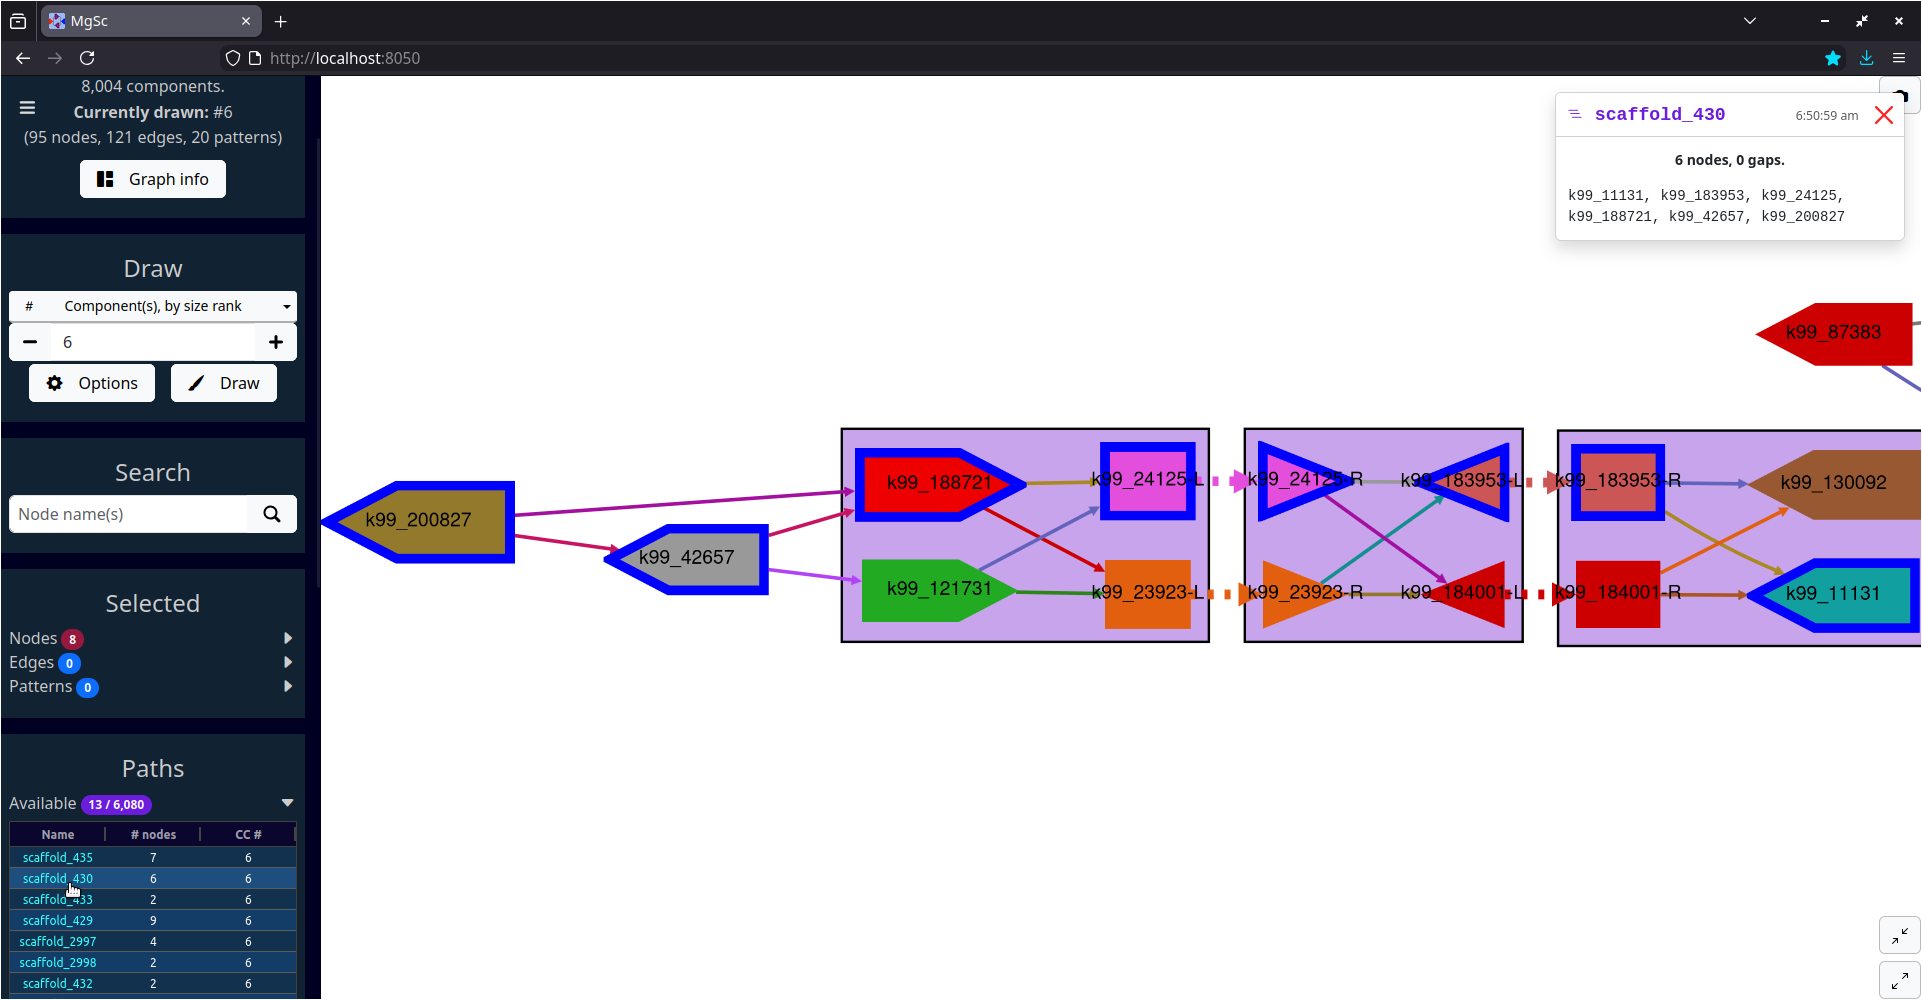
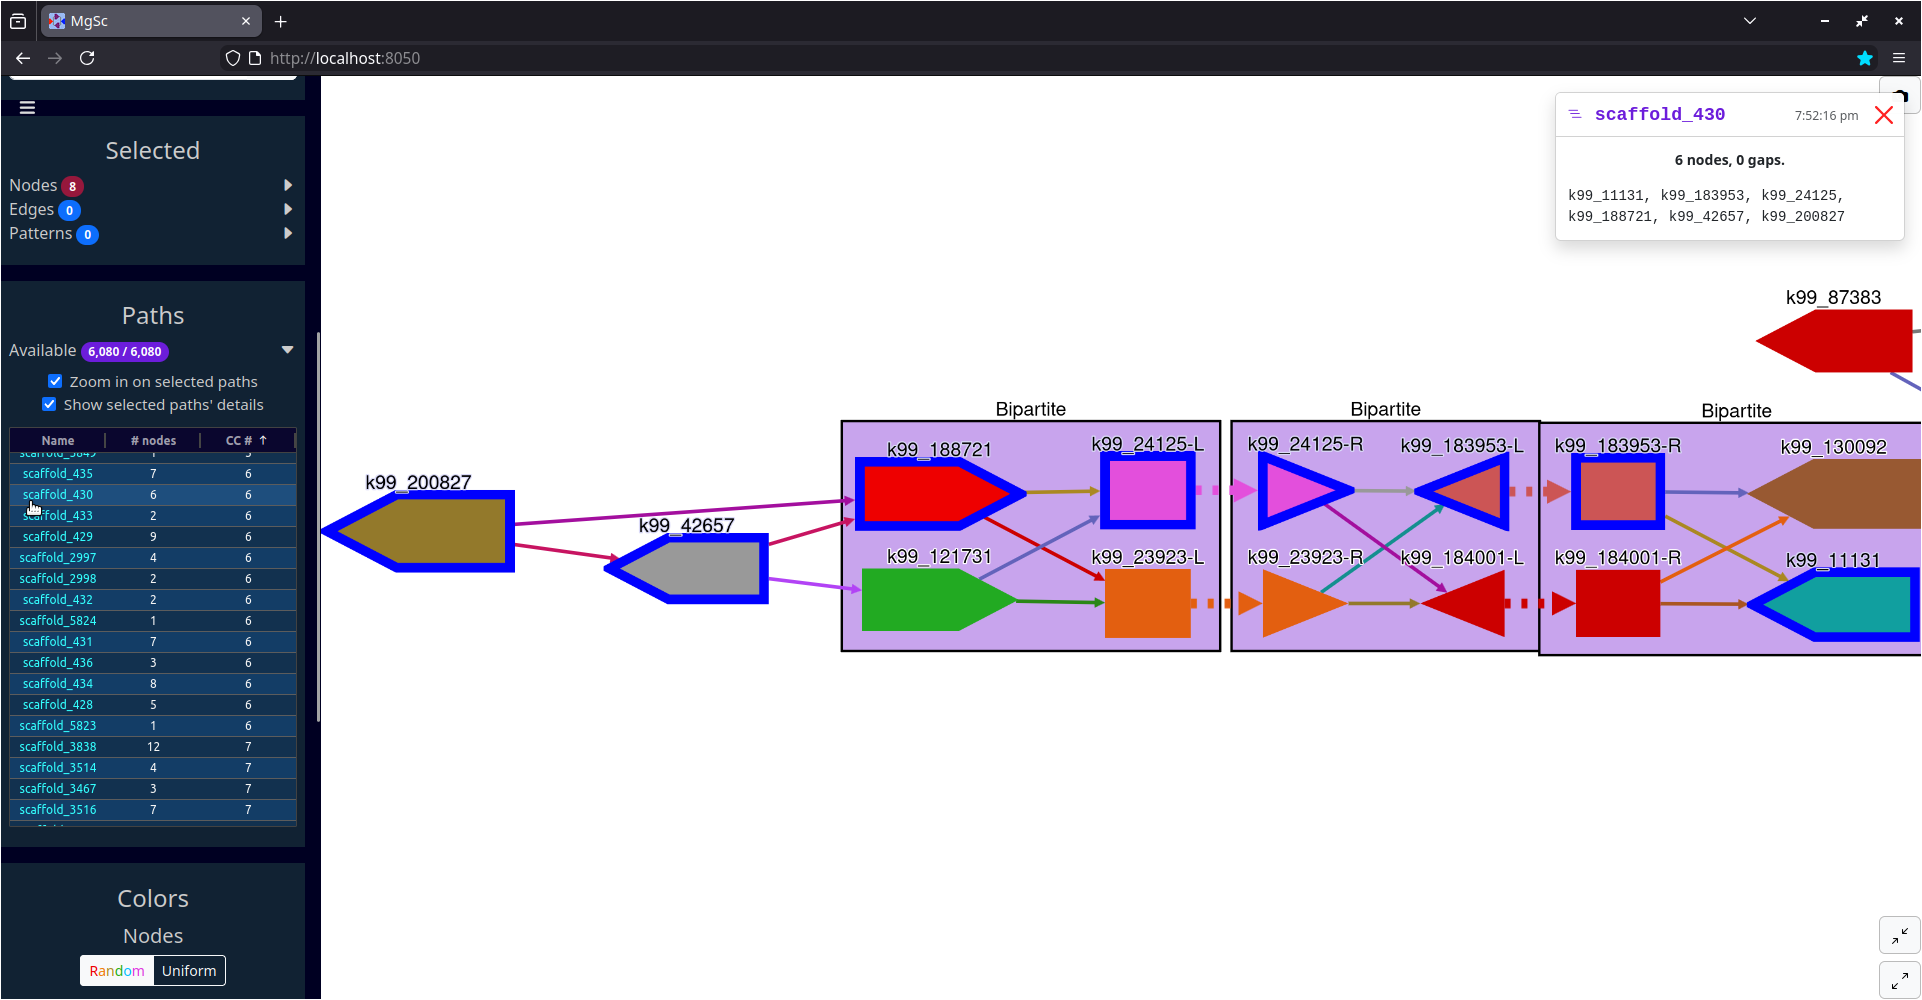
example graph screenshots :)

Changed region(s): [[0.0, 0.062, 1.0, 1.0], [0.9053, 0.279, 1.0, 0.372], [0.9365, 0.093, 0.9677, 0.124]]

diff --git a/README.md b/README.md
@@ -214,6 +214,24 @@ wget https://raw.githubusercontent.com/marbl/MetagenomeScope/refs/heads/main/met
 mgsc -g flye_yeast.gv -i flye_yeast_assembly_info.txt
 ```
 
+<table>
+  <thead>
+    <tr>
+      <th colspan="2">Yeast assembly graph screenshots</th>
+    </tr>
+  </thead>
+  <tbody>
+    <tr>
+      <td><img src="https://raw.githubusercontent.com/marbl/MetagenomeScope/refs/heads/main/docs/res/screenshots/flye_yeast_all.png" alt="Entire yeast assembly graph." /></td>
+      <td><img src="https://raw.githubusercontent.com/marbl/MetagenomeScope/refs/heads/main/docs/res/screenshots/flye_yeast.png" alt="Yeast assembly graph, zoomed in on a scaffold path." /></td>
+    </tr>
+    <tr align="center">
+      <td>Entire graph</td>
+      <td>Zoomed in on <tt>scaffold_34</tt> in component #1</td>
+    </tr>
+  </tbody>
+</table>
+
 ### 2. Medium graph: Velvet (`LastGraph` file; 558 nodes; 664 edges) -- _E. coli_
 
 This is an example graph from [Bandage](http://rrwick.github.io/Bandage/).
@@ -224,6 +242,24 @@ wget https://raw.githubusercontent.com/marbl/MetagenomeScope/refs/heads/main/met
 
 mgsc -g E_coli_LastGraph
 ```
+
+<table>
+  <thead>
+    <tr>
+      <th colspan="2"><i>E. coli</i> assembly graph screenshots</th>
+    </tr>
+  </thead>
+  <tbody>
+    <tr>
+      <td><img src="https://raw.githubusercontent.com/marbl/MetagenomeScope/refs/heads/main/docs/res/screenshots/ecoli_dot.png" alt="E. coli assembly graph drawn using a hierarchical layout algorithm, dot." /></td>
+      <td><img src="https://raw.githubusercontent.com/marbl/MetagenomeScope/refs/heads/main/docs/res/screenshots/ecoli_sfdp_osfminus15.png" alt="E. coli assembly graph drawn using a force-directed layout algorithm, sfdp." /></td>
+    </tr>
+    <tr align="center">
+      <td>Hierarchical layout with <a href="https://graphviz.org/docs/layouts/dot/"><i>dot</i></a></td>
+      <td>Force-directed layout with <a href="https://graphviz.org/docs/layouts/sfdp/"><i>sfdp</i></a></td>
+    </tr>
+  </tbody>
+</table>
 
 ### 3. Large graph: MetaCarvel (`GML` file; 28,064 nodes; 21,769 edges) -- stool metagenome
 
@@ -237,10 +273,28 @@ wget https://zenodo.org/records/18316065/files/scaffolds_august1_fixed.agp
 mgsc -g august1.gml -a scaffolds_august1_fixed.agp --verbose
 ```
 
+<table>
+  <thead>
+    <tr>
+      <th colspan="2">Stool metagenome scaffold graph screenshots</th>
+    </tr>
+  </thead>
+  <tbody>
+    <tr>
+      <td><img src="https://raw.githubusercontent.com/marbl/MetagenomeScope/refs/heads/main/docs/res/screenshots/aug1cc2.png" alt="Second largest connected component." /></td>
+      <td><img src="https://raw.githubusercontent.com/marbl/MetagenomeScope/refs/heads/main/docs/res/screenshots/aug1cc6_scaffold430.png" alt="Sixth largest connected connected component, zoomed in on a scaffold path." /></td>
+    </tr>
+    <tr align="center">
+      <td>Entire graph (on my 2018 laptop this takes about 2.5 minutes to lay out and draw; see tip below) </td>
+      <td>Zoomed in on <tt>scaffold_430</tt> in component #6</td>
+    </tr>
+  </tbody>
+</table>
+
 > [!TIP]
 > You can get a sense for the sizes of this graph's connected components by clicking the "Graph info" button in the left sidebar, then examining the information in the "Components" tab.
 >
-> This shows that the largest connected component in this graph (i.e. the one with size rank #1) contains over six thousand nodes. You can certainly draw this component in MetagenomeScope, but it will take a few seconds to lay out and draw. The resulting interface may also become a bit sluggish due to the size of the graph.
+> This shows that the largest connected component in this graph (i.e. the one with size rank #1) contains over six thousand nodes. You can certainly draw this component in MetagenomeScope, but it will take a few seconds to lay out and draw. The resulting interface may also become a bit sluggish due to the size of the graph. (You could even draw the entire graph if you wanted to, as shown above! But it will be even more sluggish.)
 >
 > If you would like to examine the smaller parts of this graph, you can start by drawing component #2 -- or even a range of components, for example #2 - 10. (Try pasting `2-10` into the "Component(s), by size rank" input to draw all of these components at once!)
 >
